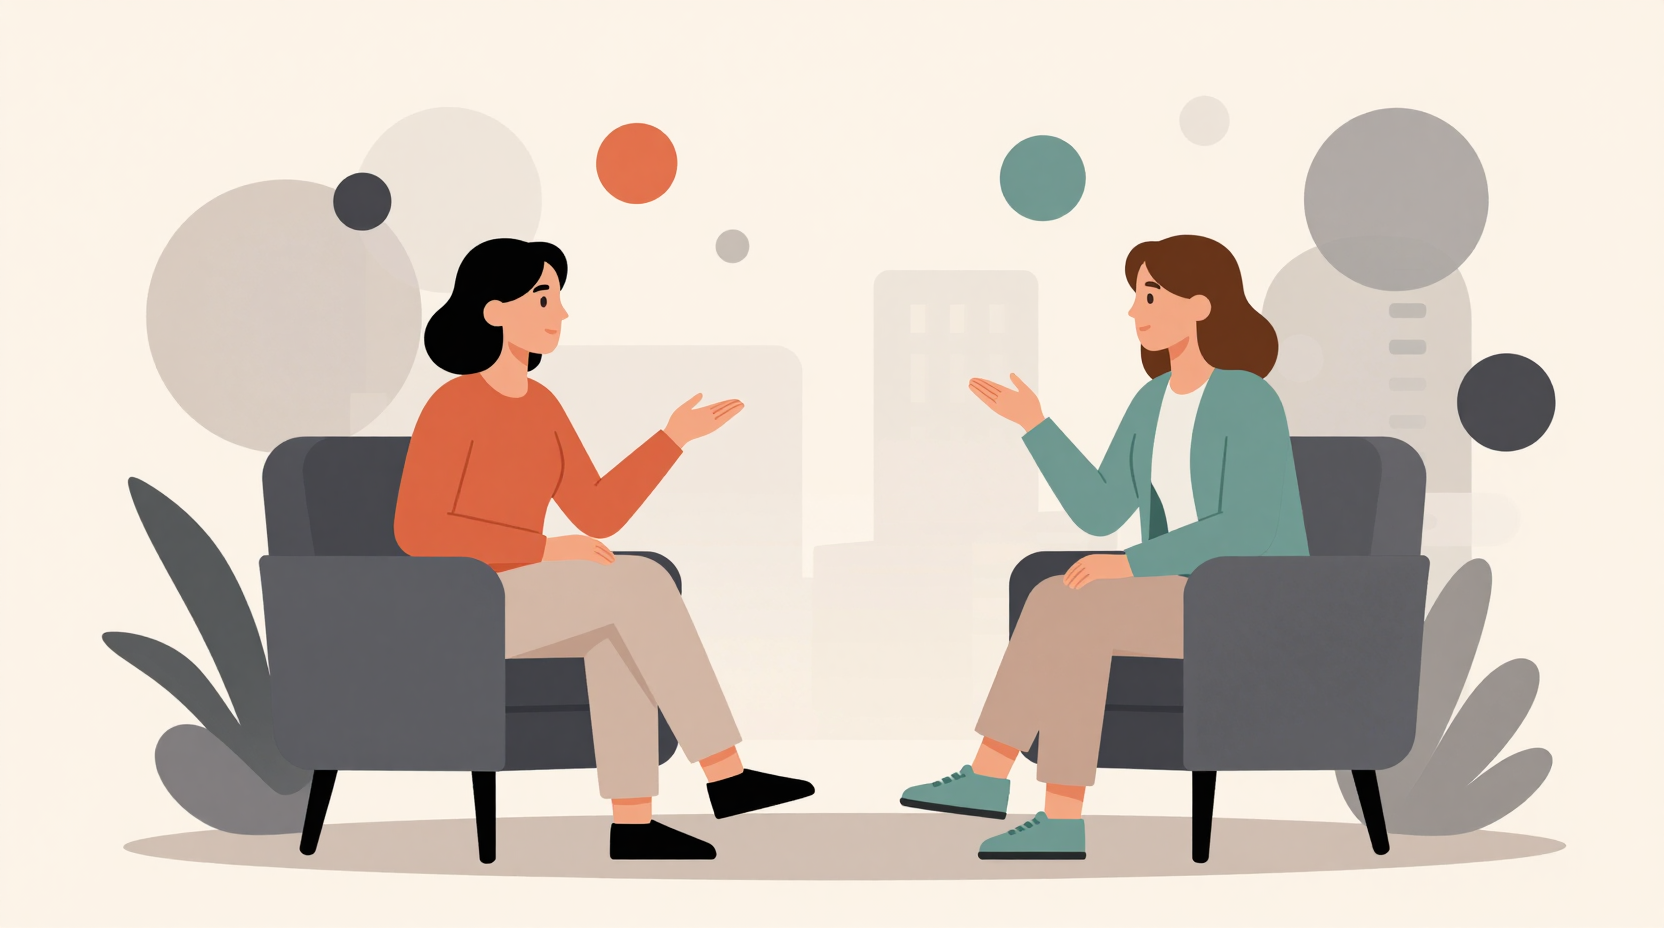
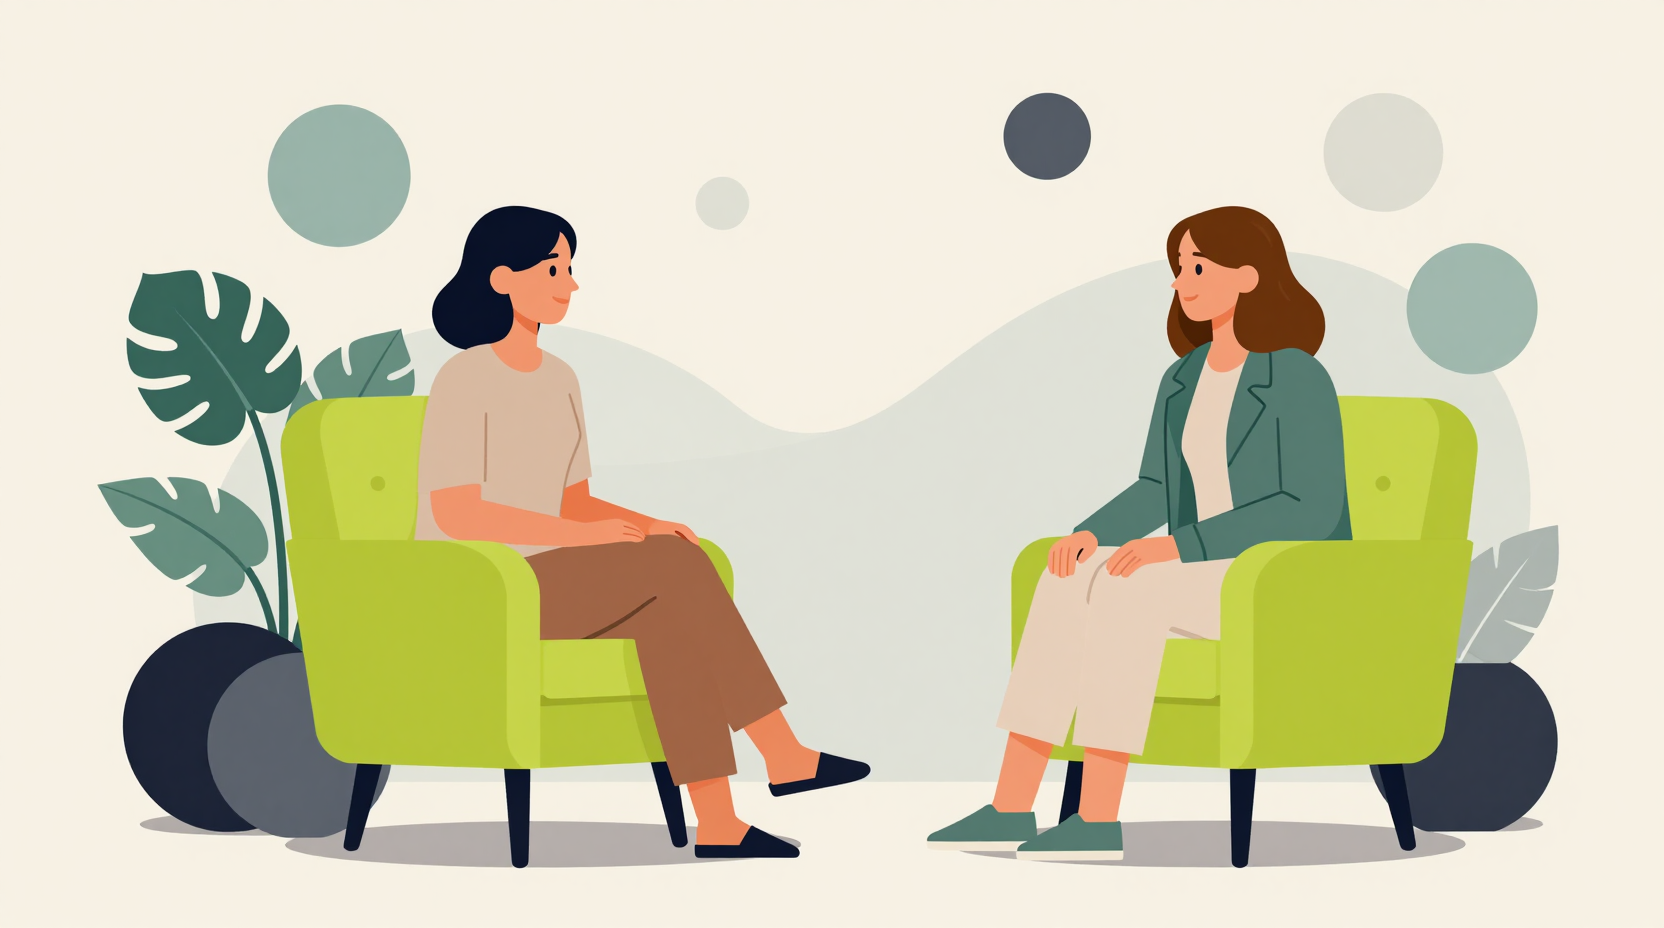
updating images

diff --git a/IMAGES.md b/IMAGES.md
@@ -1,0 +1,48 @@
+
+# Online
+
+|Seed|`Model`|
+|---|---|
+|`884390148`|`ZImageTurbo`|
+
+### Prompt
+```
+(masterpiece, best quality, ultra detailed, editorial illustration:1.3),
+((flat vector illustration:1.7)),
+((clean vector line art:1.6)),
+((uniform flat color fills:1.6)),
+((urban geometric composition:1.5)),
+((contemporary 2D illustration)),
+((screen print aesthetic)),
+(no text, no letters, no words, no typography, no logos, no watermark, no captions),
+black haired woman on the left sitting in a modern lime green armchair wearing neutral colored clothes with top colored #fd5622 engaged in conversation facing a giant open laptop on the right side, inside the screen of the laptop a smiling woman with brown shoulder length hair wearing neutral colored clothes with jacket colored #a7d49b appears as part of the video interface, clean solid background, surrounded by floating abstract rounded geometric shapes lifting from the canvas, soft depth layering, sleek jacket over layered top, minimalist sneakers, floating organic circles and pill shapes in faint accent colors, subtle shadow layers behind subject to separate from background
+palette: #f6f0e2 background, #ede8d6, #141414, #484848, #a7d49b, #92ac86, #fd5622, #6f695e
+modern urban vector illustration, elegant fashion-inspired composition, clean negative space, abstract depth elements
+```
+
+negative
+```
+cartoon, illustration, painting, deformed, extra limbs, blurry, low quality, text, watermark, jpeg artifacts
+```
+
+
+# In-Person
+
+|Seed|`Model`|
+|---|---|
+|`884390148`|`ZImageTurbo`|
+
+
+```
+(masterpiece, best quality, ultra detailed, editorial illustration:1.3),
+((flat vector illustration:1.7)),
+((clean vector line art:1.6)),
+((uniform flat color fills:1.6)),
+((urban geometric composition:1.5)),
+((contemporary 2D illustration)),
+((screen print aesthetic)),
+(no text, no letters, no words, no typography, no logos, no watermark, no captions),
+two women sitting in modern lime green armchairs opposite each other engaged in conversation, accompanied by a lush Monstera deliciosa plant, woman on the left wearing neutral colored clothes with highlight color #fd5622 facing a smiling woman with brown shoulder length hair wearing neutral colored clothes with jacket colored #a7d49b, both relaxed postures, calm focused expressions, clean solid background, surrounded by floating abstract rounded geometric shapes lifting from the canvas, soft depth layering, sleek jacket colored #a7d49b over layered top, minimalist sneakers, floating organic circles and pill shapes in faint accent colors, subtle shadow layers behind subject to separate from background
+palette: #f6f0e2 background, #ede8d6, #141414, #484848, #a7d49b, #92ac86, #fd5622, #6f695e
+modern urban vector illustration, elegant fashion-inspired composition, clean negative space, abstract depth elements
+```
